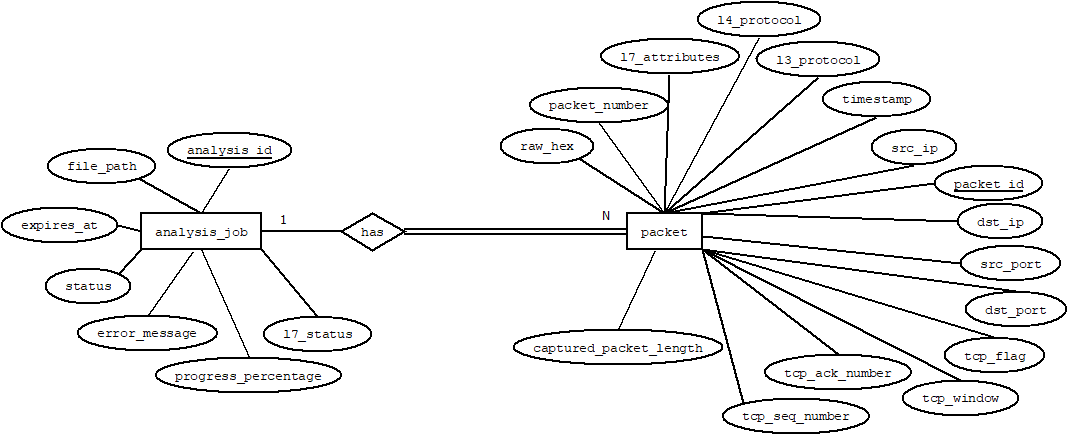
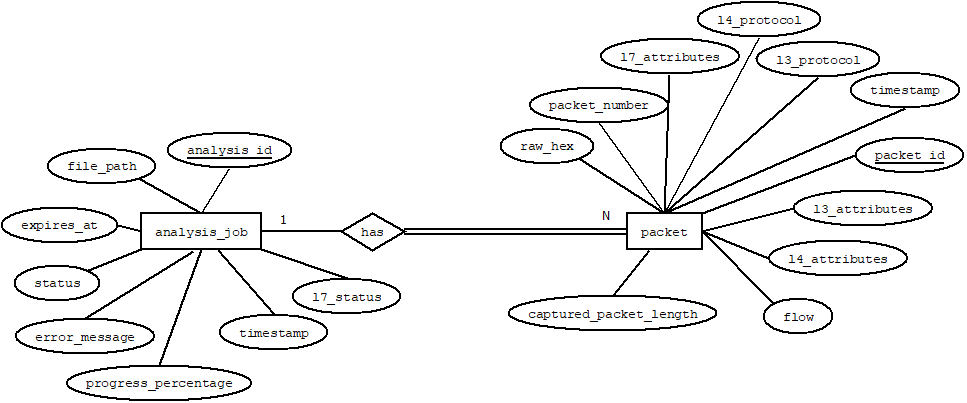
UseCase diagram and ER diagram update.

Changed region(s): [[0.0, 0.0, 1.0, 1.0], [0.7135, 0.3275, 0.7756, 0.3871]]

diff --git a/src/WebShark/app/Http/Controllers/PcapController.php b/src/WebShark/app/Http/Controllers/PcapController.php
@@ -108,7 +108,8 @@ class PcapController extends Controller
             $props['queue_position'] = AnalysisJob::where(function ($q){
                 $q->where('status', 'dispatching');
                 $q->orWhere('l7_status', 'dispatching');
-            })->where('timestamp', '<=', $job->timestamp)
+            })
+            ->where('timestamp', '<=', $job->timestamp)
             ->where('analysis_id', '!=', $id)
             ->count();
             return Inertia::render('Analysis', $props);
